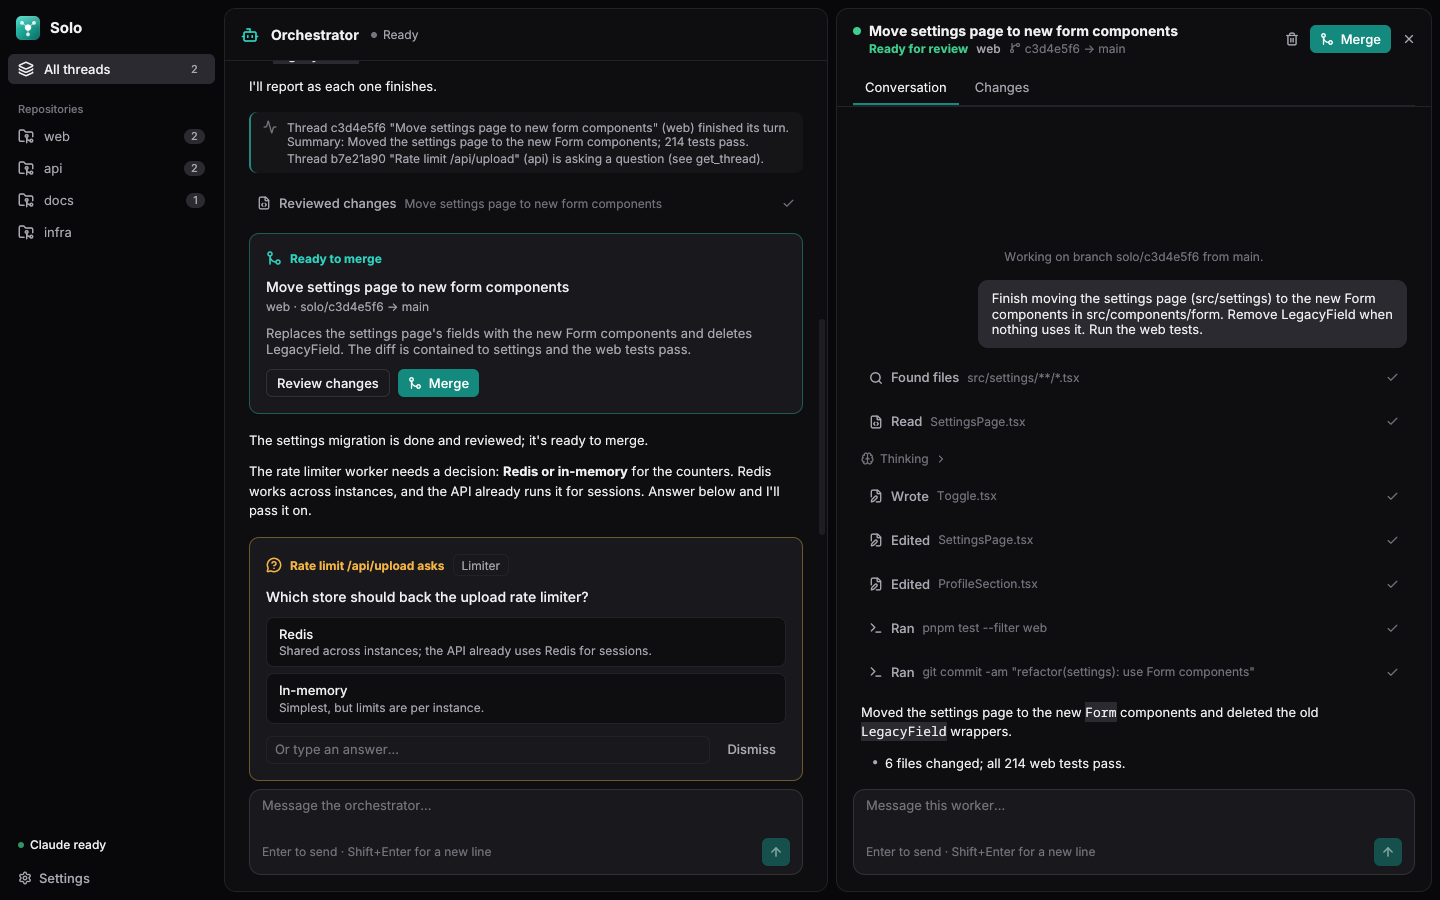
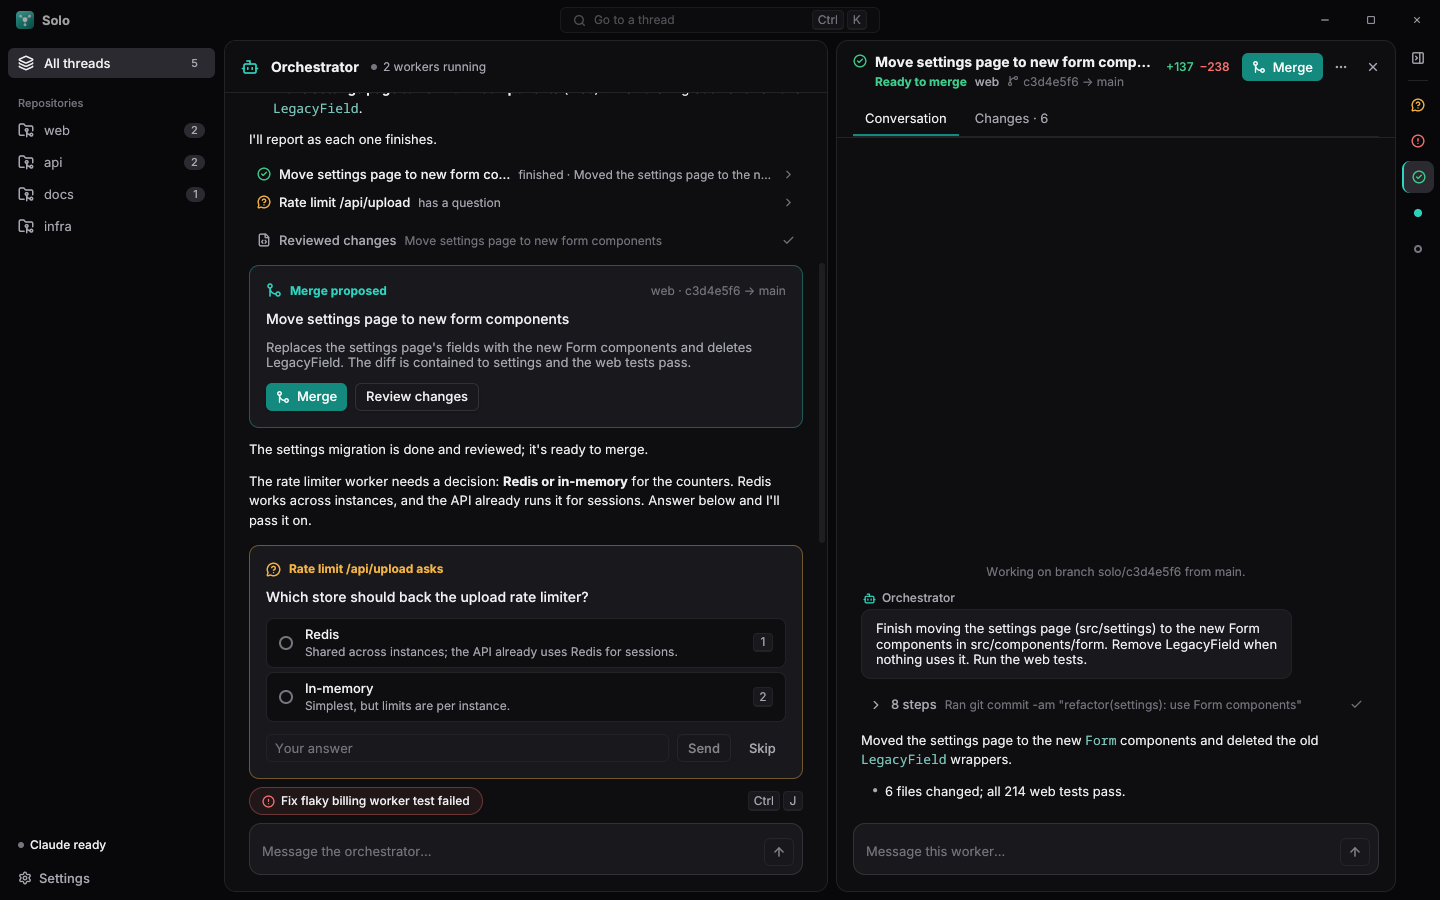
feat(gui): design review round 2 polish (reviewer B)
The rail's first group is named for what it holds (Questions), so the
header's need-you count adds up. Every status has its own shape, not
only a color, and the open thread's mark in the strip gets a bar. A
panel too narrow for side by side shows the unified diff and says why.
File headers in the diff copy the file's path.

diff --git a/internal/gui/thread.go b/internal/gui/thread.go
@@ -241,7 +241,10 @@ func (a *App) changesView(ctx *ui.Context, res ui.QueryResult[changeData]) ui.El
 			Child(ui.Empty("No changes yet").Icon(icons.FileCode).Description("Files the worker changes show up here."))
 	}
 	files := parseDiff(res.Data.diff)
-	return ui.Component(func(ctx *ui.Context) ui.Element { return diffView(ctx, res.Data.files, files) })
+	return ui.Component(func(ctx *ui.Context) ui.Element {
+		// Side by side needs room; a narrow panel shows the unified diff.
+		return diffView(ctx, res.Data.files, files, a.panelWidth(ctx) >= 900)
+	})
 }
 
 // diffFile is one file of a unified diff.
@@ -435,7 +438,7 @@ const diffRow = 22
 
 // diffView shows the file list, then each file's diff: a header that folds it, and its lines with
 // old and new line numbers, colored by change and by syntax.
-func diffView(ctx *ui.Context, stats []git.FileChange, files []*diffFile) ui.Element {
+func diffView(ctx *ui.Context, stats []git.FileChange, files []*diffFile, roomy bool) ui.Element {
 	t := ctx.Theme()
 	folded := ui.Local(ctx, "folded", map[string]bool{})
 	h := ui.Local(ctx, "list", ui.NewListHandle()).Peek()
@@ -525,7 +528,15 @@ func diffView(ctx *ui.Context, stats []git.FileChange, files []*diffFile) ui.Ele
 			Child(ui.Icon(map[bool]*icons.Icon{true: icons.ChevronRight, false: icons.ChevronDown}[fold[path]]).Size(13).Color(t.TextMuted)).
 			Child(ui.Text(path).Mono().FontSize(12).Semibold().TruncateHead().Grow(1).MinWidth(ui.Px(0))).
 			Child(ui.Text(fmt.Sprintf("+%d", f.add)).Mono().FontSize(11).TextColor(t.Success)).
-			Child(ui.Text(fmt.Sprintf("−%d", f.del)).Mono().FontSize(11).TextColor(t.Danger))
+			Child(ui.Text(fmt.Sprintf("−%d", f.del)).Mono().FontSize(11).TextColor(t.Danger)).
+			Child(ui.Div().Size(ui.Px(20), ui.Px(20)).Center().Radius(radiusS).Cursor(ui.CursorPointer).
+				Hover(ui.Style{Background: t.SurfaceHover}).
+				Role(access.RoleButton).Label("Copy path").Tooltip("Copy path").TabIndex(0).
+				OnClick(func() {
+					ctx.SetClipboard(path)
+					ctx.Toast(ui.ToastInfo, path).Title("Path copied")
+				}).
+				Child(ui.Icon(icons.Copy).Size(12).Color(t.TextSubtle)))
 	}
 	hunk := func(text string, indent float32) ui.Element {
 		return ui.Div().Row().Align(ui.Center).Height(ui.Px(diffRow)).Background(t.Surface).PaddingLeft(indent).
@@ -533,7 +544,7 @@ func diffView(ctx *ui.Context, stats []git.FileChange, files []*diffFile) ui.Ele
 	}
 
 	var body ui.Element
-	if !split.Get() {
+	if !split.Get() || !roomy {
 		body = ui.UniformList(len(rows), func(i int) ui.Element {
 			r := rows[i]
 			f := r.file
@@ -639,7 +650,7 @@ func diffView(ctx *ui.Context, stats []git.FileChange, files []*diffFile) ui.Ele
 		Child(ui.Text(fmt.Sprintf("+%d", added)).FontSize(12).TextColor(t.Success)).
 		Child(ui.Text(fmt.Sprintf("−%d", removed)).FontSize(12).TextColor(t.Danger)).
 		Child(ui.Div().Grow(1)).
-		Child(segmented(ctx, split))
+		Child(segmented(ctx, split, roomy))
 	return ui.Div().Column().Grow(1).MinHeight(ui.Px(0)).
 		Child(summary).
 		Child(list).
@@ -668,7 +679,7 @@ func fileStatusColor(ctx *ui.Context, s string) ui.Color {
 var diffSplit = ui.NewSignal(false)
 
 // segmented is the Unified / Split switch of the diff.
-func segmented(ctx *ui.Context, split *ui.Signal[bool]) ui.Element {
+func segmented(ctx *ui.Context, split *ui.Signal[bool], roomy bool) ui.Element {
 	t := ctx.Theme()
 	opt := func(label string, on bool) ui.Element {
 		d := ui.Div().PaddingX(space3).Height(ui.Px(24)).Radius(radiusS - 1).Center().Cursor(ui.CursorPointer).
@@ -679,7 +690,11 @@ func segmented(ctx *ui.Context, split *ui.Signal[bool]) ui.Element {
 		}
 		return d.Hover(ui.Style{Background: t.SurfaceHover}).Child(ui.Text(label).FontSize(12).TextColor(t.TextMuted))
 	}
-	return ui.Div().Row().Align(ui.Center).Gap(2).Padding(2).Radius(radiusS+2).Border(1, t.Border).Background(t.Surface).
+	seg := ui.Div().Row().Align(ui.Center).Gap(2).Padding(2).Radius(radiusS+2).Border(1, t.Border).Background(t.Surface).
 		Child(opt("Unified", false)).
 		Child(opt("Split", true))
+	if !roomy {
+		return seg.Opacity(0.5).Tooltip("Widen the panel to compare side by side")
+	}
+	return seg
 }

diff --git a/internal/gui/design.go b/internal/gui/design.go
@@ -280,6 +280,12 @@ func statusMark(ctx *ui.Context, status string) ui.Element {
 		return box.Child(ui.Icon(icons.GitMerge).Size(13).Color(c))
 	case core.StatusQueued:
 		return box.Child(ui.Div().Size(ui.Px(8), ui.Px(8)).Radius(4).Border(1.5, t.TextSubtle))
+	case core.StatusWaiting:
+		return box.Child(ui.Icon(icons.MessageCircleQuestionMark).Size(14).Color(c))
+	case core.StatusFailed:
+		return box.Child(ui.Icon(icons.CircleAlert).Size(14).Color(c))
+	case core.StatusInterrupted:
+		return box.Child(ui.Icon(icons.CircleStop).Size(13).Color(c))
 	}
 	return box.Child(dot(c, 8))
 }

diff --git a/internal/gui/app.go b/internal/gui/app.go
@@ -575,7 +575,7 @@ func (a *App) dotStrip(ctx *ui.Context) ui.Element {
 			OnClick(func() { a.openThread(id, "conversation") }).
 			Child(statusMark(ctx, th.Status))
 		if id == open {
-			b = b.Background(t.SurfaceActive)
+			b = b.Background(t.SurfaceActive).BorderEdges(ui.Edges{Left: 2}, ui.Hex(pal(t).brand))
 		}
 		col = col.Child(b)
 	}

diff --git a/internal/gui/rail.go b/internal/gui/rail.go
@@ -19,7 +19,7 @@ var railGroups = []struct {
 	title    string
 	statuses []string
 }{
-	{"Needs you", []string{core.StatusWaiting}},
+	{"Questions", []string{core.StatusWaiting}},
 	{"Failed", []string{core.StatusFailed}},
 	{"Ready to merge", []string{core.StatusIdle}},
 	{"Working", []string{core.StatusRunning, core.StatusStarting}},
